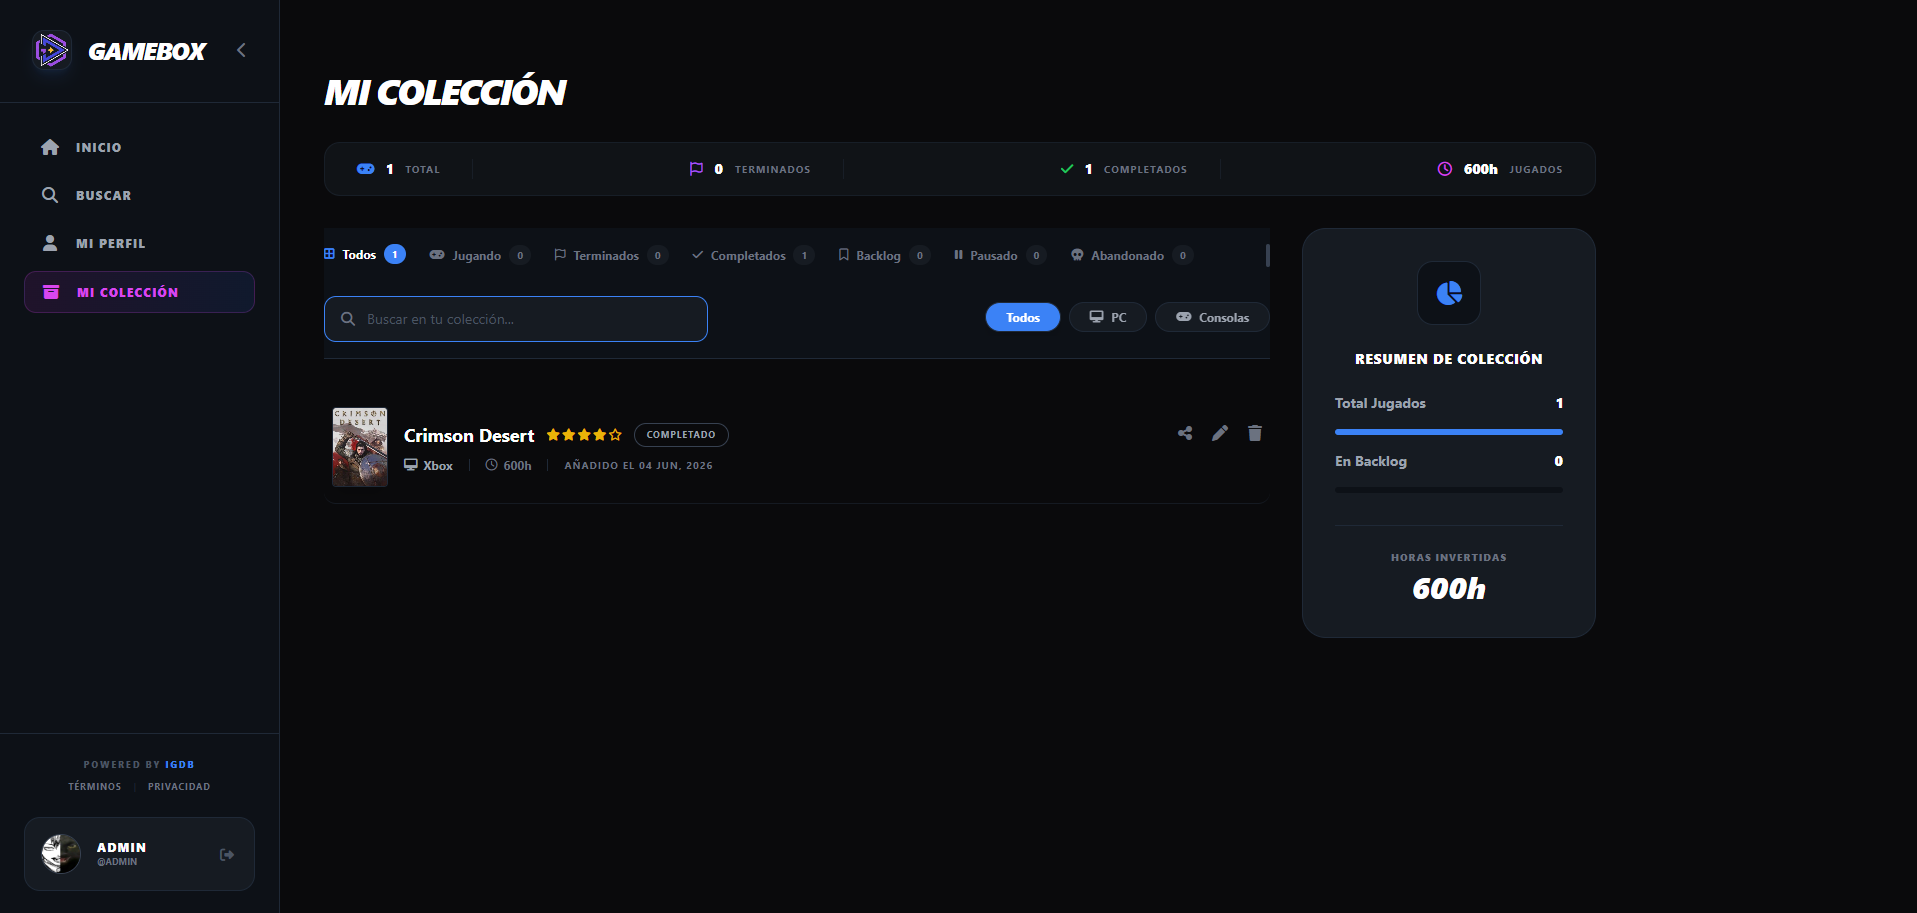
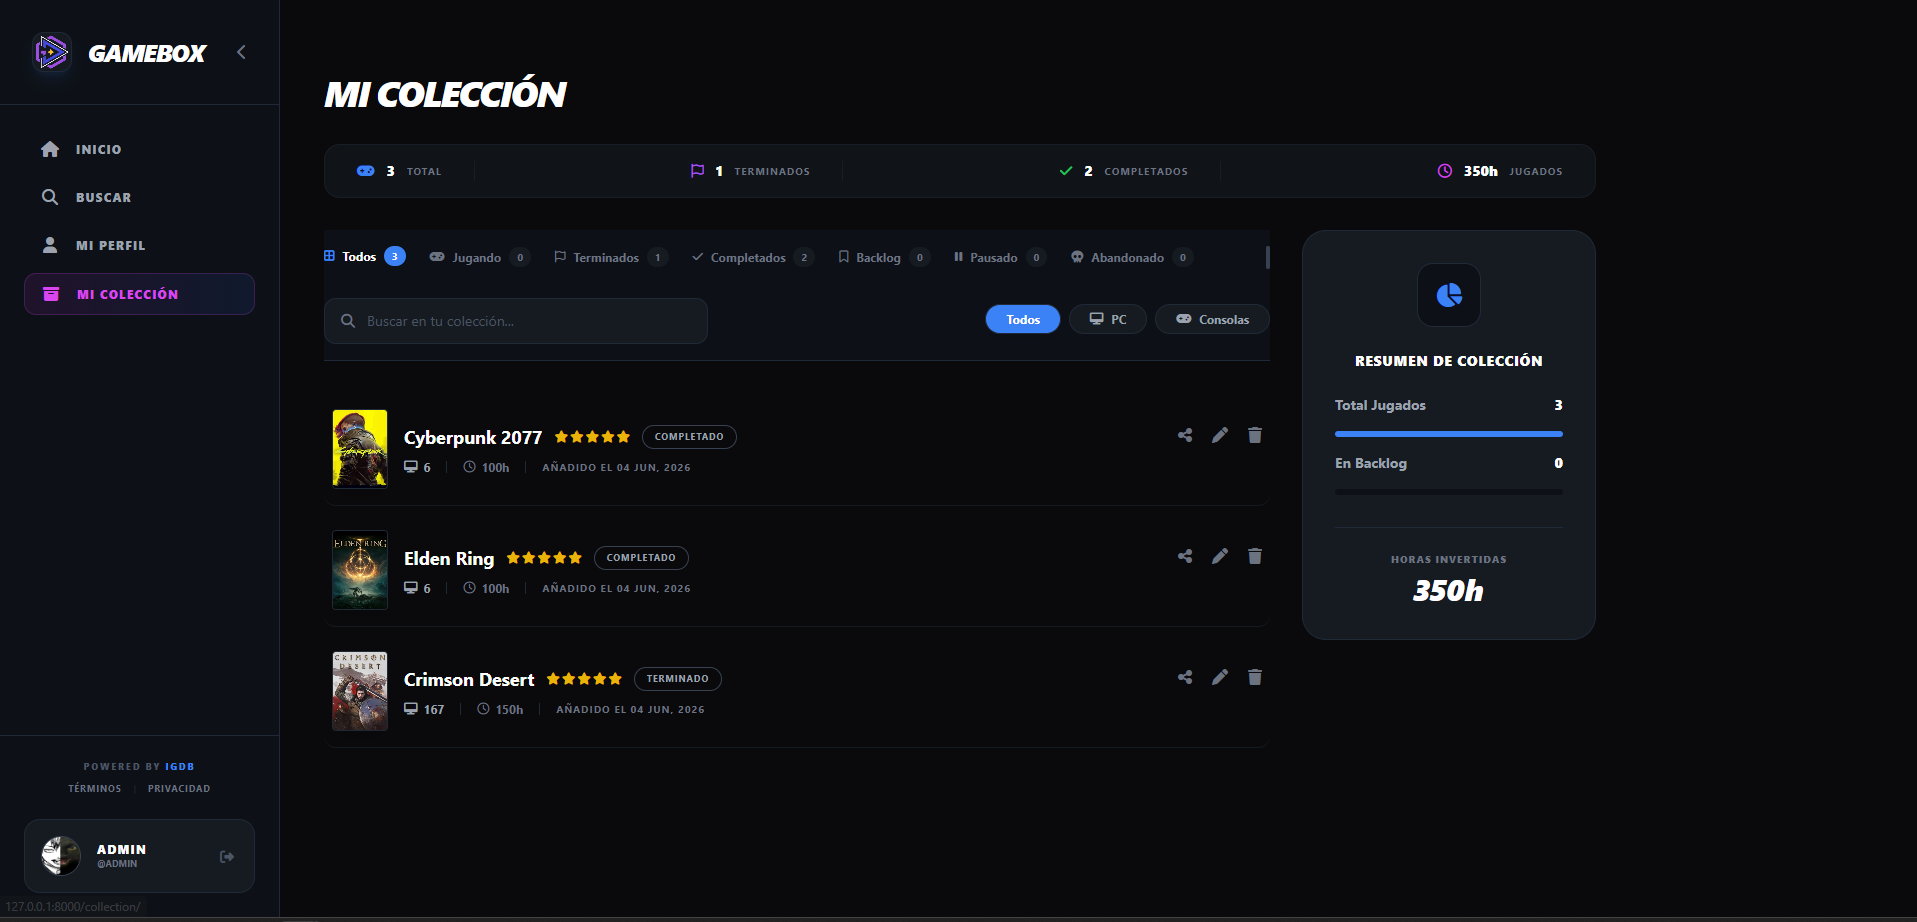
gamebox

diff --git a/core/templates/core/profile.html b/core/templates/core/profile.html
@@ -10,11 +10,6 @@
     .custom-scrollbar::-webkit-scrollbar { height: 4px; width: 4px; }
     .custom-scrollbar::-webkit-scrollbar-track { background: transparent; }
     .custom-scrollbar::-webkit-scrollbar-thumb { background: #374151; border-radius: 10px; }
-    .activity-box { width: 10px; height: 10px; border-radius: 2px; background-color: #1f2937; }
-    .activity-box.level-1 { background-color: #0e4429; }
-    .activity-box.level-2 { background-color: #006d32; }
-    .activity-box.level-3 { background-color: #26a641; }
-    .activity-box.level-4 { background-color: #39d353; }
     
     .tab-active { border-bottom-width: 2px; border-color: var(--user-accent); color: white !important; }
     .tab-active i { color: var(--user-accent); }
@@ -512,26 +507,6 @@
                     <span class="flex items-center gap-1"><i class="fa-solid fa-gamepad text-gray-500 text-xs"></i> {{ stats.total_games|default:"0" }}</span>
                     <span class="flex items-center gap-1"><i class="fa-regular fa-flag text-purple-500 text-xs"></i> {{ stats.finished|default:"0" }}</span>
                     <span class="flex items-center gap-1"><i class="fa-solid fa-check text-green-500 text-xs"></i> {{ stats.completed|default:"0" }}</span>
-                </div>
-            </div>
-
-            <div class="bg-[#161b22] border border-gray-800 rounded-2xl p-6">
-                <div class="flex justify-between items-end mb-4">
-                    <h3 class="font-bold text-white text-sm">Mapa de Actividad</h3>
-                    <span class="text-[10px] text-gray-500">Últimos 90 días</span>
-                </div>
-                <div class="grid grid-cols-[auto_1fr] gap-2">
-                    <div class="flex flex-col gap-[6px] text-[8px] text-gray-500 pt-1">
-                        <span>L</span><span>X</span><span>V</span>
-                    </div>
-                    <div class="grid grid-cols-12 gap-1.5">
-                        <script>
-                            for(let i=0; i<84; i++) {
-                                let level = Math.floor(Math.random() * 2);
-                                document.write(`<div class="activity-box ${level > 0 ? 'level-'+level : ''}"></div>`);
-                            }
-                        </script>
-                    </div>
                 </div>
             </div>
         </div>

diff --git a/crear_presentacion.py b/crear_presentacion.py
@@ -1,0 +1,208 @@
+from pptx import Presentation
+from pptx.util import Inches, Pt
+from pptx.dml.color import RGBColor
+from pptx.enum.text import PP_ALIGN
+from pptx.enum.shapes import MSO_SHAPE
+
+# Inicializar presentación
+prs = Presentation()
+
+# Configurar relación de aspecto a 16:9
+prs.slide_width = Inches(16)
+prs.slide_height = Inches(9)
+
+# Paleta de colores Gamebox
+bg_color = RGBColor(10, 10, 12)       # Fondo oscuro
+text_white = RGBColor(255, 255, 255)  
+text_cyan = RGBColor(6, 182, 212)     # Cian neón
+text_fuchsia = RGBColor(217, 70, 239) # Fucsia neón
+text_gray = RGBColor(156, 163, 175)   
+
+def add_bg(slide):
+    shape = slide.shapes.add_shape(MSO_SHAPE.RECTANGLE, 0, 0, prs.slide_width, prs.slide_height)
+    shape.fill.solid()
+    shape.fill.fore_color.rgb = bg_color
+    shape.line.fill.background()
+    return shape
+
+def add_title(slide, text, color=text_white):
+    txBox = slide.shapes.add_textbox(Inches(1), Inches(0.8), Inches(14), Inches(1.5))
+    tf = txBox.text_frame
+    p = tf.paragraphs[0]
+    p.text = text
+    p.font.name = "Arial Black"
+    p.font.size = Pt(54)
+    p.font.bold = True
+    p.font.italic = True
+    p.font.color.rgb = color
+
+def add_bullet(tf, text, size=32, color=text_gray, bold=False):
+    p = tf.add_paragraph()
+    p.text = "• " + text
+    p.font.name = "Arial"
+    p.font.size = Pt(size)
+    p.font.color.rgb = color
+    p.font.bold = bold
+    p.space_before = Pt(20)
+
+# ==========================================
+# DIAPOSITIVA 1: Portada
+# ==========================================
+slide1 = prs.slides.add_slide(prs.slide_layouts[6])
+add_bg(slide1)
+txBox = slide1.shapes.add_textbox(Inches(0), Inches(3), prs.slide_width, Inches(2))
+tf = txBox.text_frame
+p = tf.paragraphs[0]
+p.text = "GAMEBOX"
+p.font.name = "Arial Black"
+p.font.size = Pt(110)
+p.font.italic = True
+p.font.color.rgb = text_white
+p.alignment = PP_ALIGN.CENTER
+
+txBox2 = slide1.shapes.add_textbox(Inches(0), Inches(5.2), prs.slide_width, Inches(1))
+p2 = txBox2.text_frame.paragraphs[0]
+p2.text = "TU RED SOCIAL & GESTOR DE VIDEOJUEGOS"
+p2.font.name = "Arial"
+p2.font.size = Pt(28)
+p2.font.bold = True
+p2.font.color.rgb = text_cyan
+p2.alignment = PP_ALIGN.CENTER
+
+txBox3 = slide1.shapes.add_textbox(Inches(0), Inches(7.5), prs.slide_width, Inches(1))
+p3 = txBox3.text_frame.paragraphs[0]
+p3.text = "Desarrollado por Miguel Ángel Gambero | 2º DAW"
+p3.font.name = "Arial"
+p3.font.size = Pt(18)
+p3.font.color.rgb = text_gray
+p3.alignment = PP_ALIGN.CENTER
+
+# ==========================================
+# DIAPOSITIVA 2: El Problema
+# ==========================================
+slide2 = prs.slides.add_slide(prs.slide_layouts[6])
+add_bg(slide2)
+add_title(slide2, "EL PROBLEMA", text_fuchsia)
+txBox = slide2.shapes.add_textbox(Inches(1.5), Inches(3), Inches(13), Inches(5))
+tf = txBox.text_frame
+add_bullet(tf, "Información gamer fragmentada (Steam, PS, Xbox, Nintendo).", 36, text_white)
+add_bullet(tf, "No existe un lugar unificado y visual para gestionar el 'Backlog'.", 36, text_white)
+add_bullet(tf, "Ausencia de un ecosistema verdaderamente social y moderno.", 36, text_white)
+
+# ==========================================
+# DIAPOSITIVA 3: La Solución
+# ==========================================
+slide3 = prs.slides.add_slide(prs.slide_layouts[6])
+add_bg(slide3)
+add_title(slide3, "LA SOLUCIÓN: EL HUB DEFINITIVO", text_cyan)
+txBox = slide3.shapes.add_textbox(Inches(1.5), Inches(3), Inches(13), Inches(5))
+tf = txBox.text_frame
+add_bullet(tf, "Gestión total de la colección (Jugando, Terminado, Abandonado).", 32, text_gray)
+add_bullet(tf, "Integración y sincronización en tiempo real con la API de IGDB.", 32, text_gray)
+add_bullet(tf, "Muro de actividad (Feed) para compartir reseñas y capturas.", 32, text_gray)
+
+# ==========================================
+# DIAPOSITIVA 4: Arquitectura
+# ==========================================
+slide4 = prs.slides.add_slide(prs.slide_layouts[6])
+add_bg(slide4)
+add_title(slide4, "ARQUITECTURA DEL PROYECTO", text_white)
+
+s1 = slide4.shapes.add_shape(MSO_SHAPE.ROUNDED_RECTANGLE, Inches(1), Inches(3.5), Inches(4), Inches(4))
+s1.fill.solid()
+s1.fill.fore_color.rgb = RGBColor(22, 27, 34)
+s1.line.color.rgb = text_cyan
+s1.line.width = Pt(3)
+p1 = s1.text_frame.paragraphs[0]
+p1.text = "API IGDB\n\nConsultas asíncronas en tiempo real. Catálogo infinito sin saturar la BD."
+p1.font.size = Pt(24)
+p1.font.color.rgb = text_white
+
+s2 = slide4.shapes.add_shape(MSO_SHAPE.ROUNDED_RECTANGLE, Inches(6), Inches(3.5), Inches(4), Inches(4))
+s2.fill.solid()
+s2.fill.fore_color.rgb = RGBColor(22, 27, 34)
+s2.line.color.rgb = text_fuchsia
+s2.line.width = Pt(3)
+p2 = s2.text_frame.paragraphs[0]
+p2.text = "CACHÉ AVANZADA\n\nAlmacenamiento temporal para tiempos de carga ultrarrápidos."
+p2.font.size = Pt(24)
+p2.font.color.rgb = text_white
+
+s3 = slide4.shapes.add_shape(MSO_SHAPE.ROUNDED_RECTANGLE, Inches(11), Inches(3.5), Inches(4), Inches(4))
+s3.fill.solid()
+s3.fill.fore_color.rgb = RGBColor(22, 27, 34)
+s3.line.color.rgb = text_white
+s3.line.width = Pt(3)
+p3 = s3.text_frame.paragraphs[0]
+p3.text = "DJANGO ORM\n\nBase de datos robusta (PostgreSQL) para lógica social."
+p3.font.size = Pt(24)
+p3.font.color.rgb = text_white
+
+# ==========================================
+# DIAPOSITIVA 5: Stack Tecnológico
+# ==========================================
+slide5 = prs.slides.add_slide(prs.slide_layouts[6])
+add_bg(slide5)
+add_title(slide5, "STACK TECNOLÓGICO", text_fuchsia)
+txBox = slide5.shapes.add_textbox(Inches(1.5), Inches(3), Inches(13), Inches(5))
+tf = txBox.text_frame
+add_bullet(tf, "Backend: Python 3 y Django Framework", 36, text_white, True)
+add_bullet(tf, "Base de Datos: PostgreSQL (Alojado en Neon.tech)", 36, text_white, True)
+add_bullet(tf, "Frontend: HTML5, Tailwind CSS y JavaScript Puro", 36, text_white, True)
+add_bullet(tf, "Multimedia: Cloudinary (SaaS de almacenamiento)", 36, text_white, True)
+
+# ==========================================
+# DIAPOSITIVA 6: Interfaz Visual (Placeholders)
+# ==========================================
+slide6 = prs.slides.add_slide(prs.slide_layouts[6])
+add_bg(slide6)
+add_title(slide6, "INTERFAZ Y UX PREMIUM", text_cyan)
+
+b1 = slide6.shapes.add_shape(MSO_SHAPE.RECTANGLE, Inches(1), Inches(3), Inches(4.2), Inches(4.5))
+b1.fill.solid()
+b1.fill.fore_color.rgb = RGBColor(22, 27, 34)
+p = b1.text_frame.paragraphs[0]
+p.text = "[Añade aquí captura del FEED]"
+p.font.color.rgb = text_gray
+
+b2 = slide6.shapes.add_shape(MSO_SHAPE.RECTANGLE, Inches(5.9), Inches(2.5), Inches(4.2), Inches(5.5))
+b2.fill.solid()
+b2.fill.fore_color.rgb = RGBColor(22, 27, 34)
+b2.line.color.rgb = text_fuchsia
+b2.line.width = Pt(3)
+p = b2.text_frame.paragraphs[0]
+p.text = "[Añade aquí captura del PERFIL]"
+p.font.color.rgb = text_fuchsia
+
+b3 = slide6.shapes.add_shape(MSO_SHAPE.RECTANGLE, Inches(10.8), Inches(3), Inches(4.2), Inches(4.5))
+b3.fill.solid()
+b3.fill.fore_color.rgb = RGBColor(22, 27, 34)
+p = b3.text_frame.paragraphs[0]
+p.text = "[Añade aquí captura de LA COLECCIÓN]"
+p.font.color.rgb = text_gray
+
+# ==========================================
+# DIAPOSITIVA 7: Cierre
+# ==========================================
+slide7 = prs.slides.add_slide(prs.slide_layouts[6])
+add_bg(slide7)
+txBox = slide7.shapes.add_textbox(Inches(0), Inches(3), prs.slide_width, Inches(2))
+tf = txBox.text_frame
+p = tf.paragraphs[0]
+p.text = "EL PROYECTO ESTÁ VIVO"
+p.font.name = "Arial Black"
+p.font.size = Pt(72)
+p.font.italic = True
+p.font.color.rgb = text_white
+p.alignment = PP_ALIGN.CENTER
+
+txBox2 = slide7.shapes.add_textbox(Inches(0), Inches(5.5), prs.slide_width, Inches(1))
+p2 = txBox2.text_frame.paragraphs[0]
+p2.text = "Desplegado en producción con Render"
+p2.font.name = "Arial"
+p2.font.size = Pt(28)
+p2.font.color.rgb = text_cyan
+p2.alignment = PP_ALIGN.CENTER
+
+prs.save('Presentacion_Gamebox.pptx')
+print("¡Presentación creada con éxito! Abre Presentacion_Gamebox.pptx")